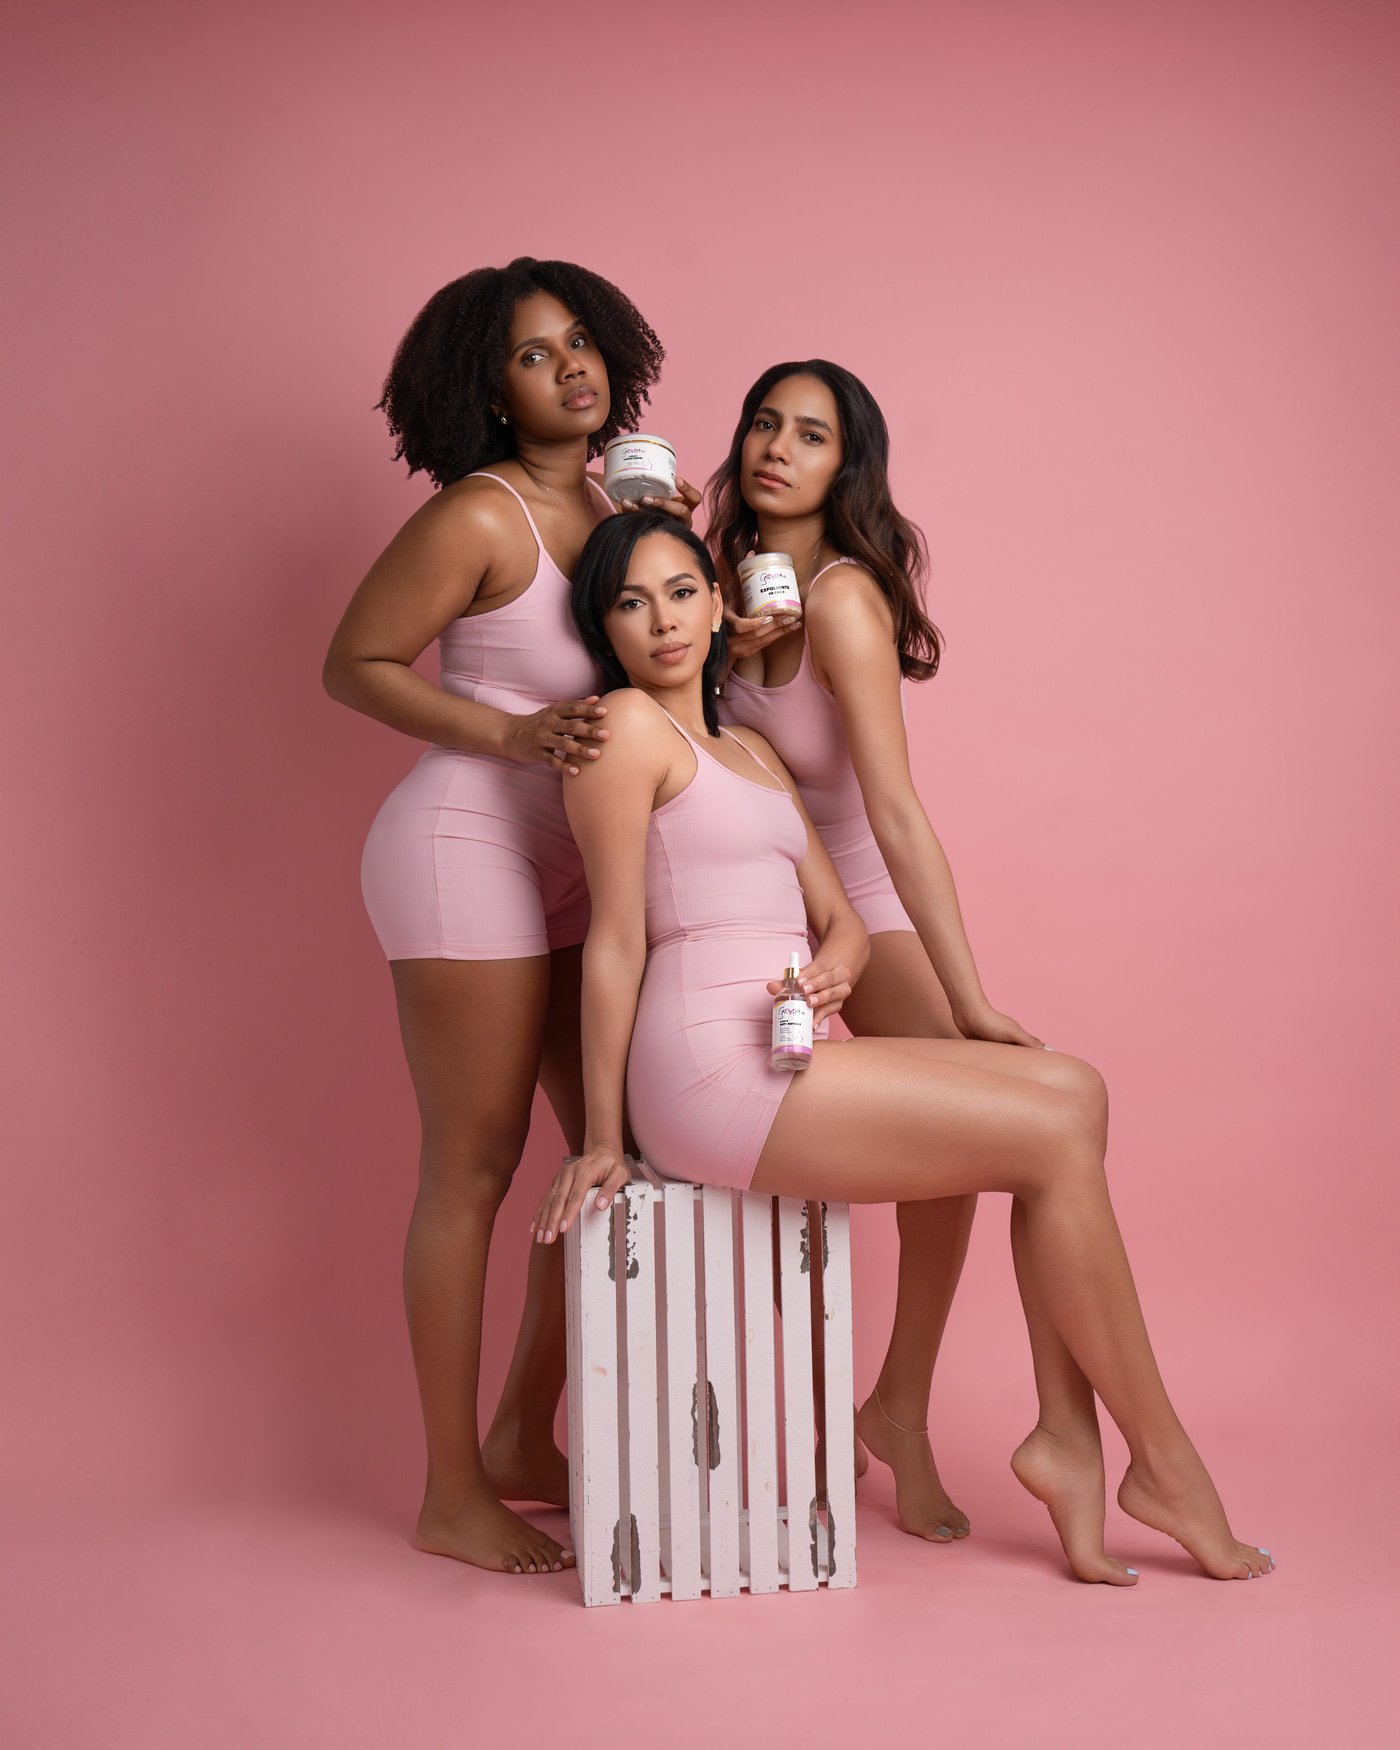
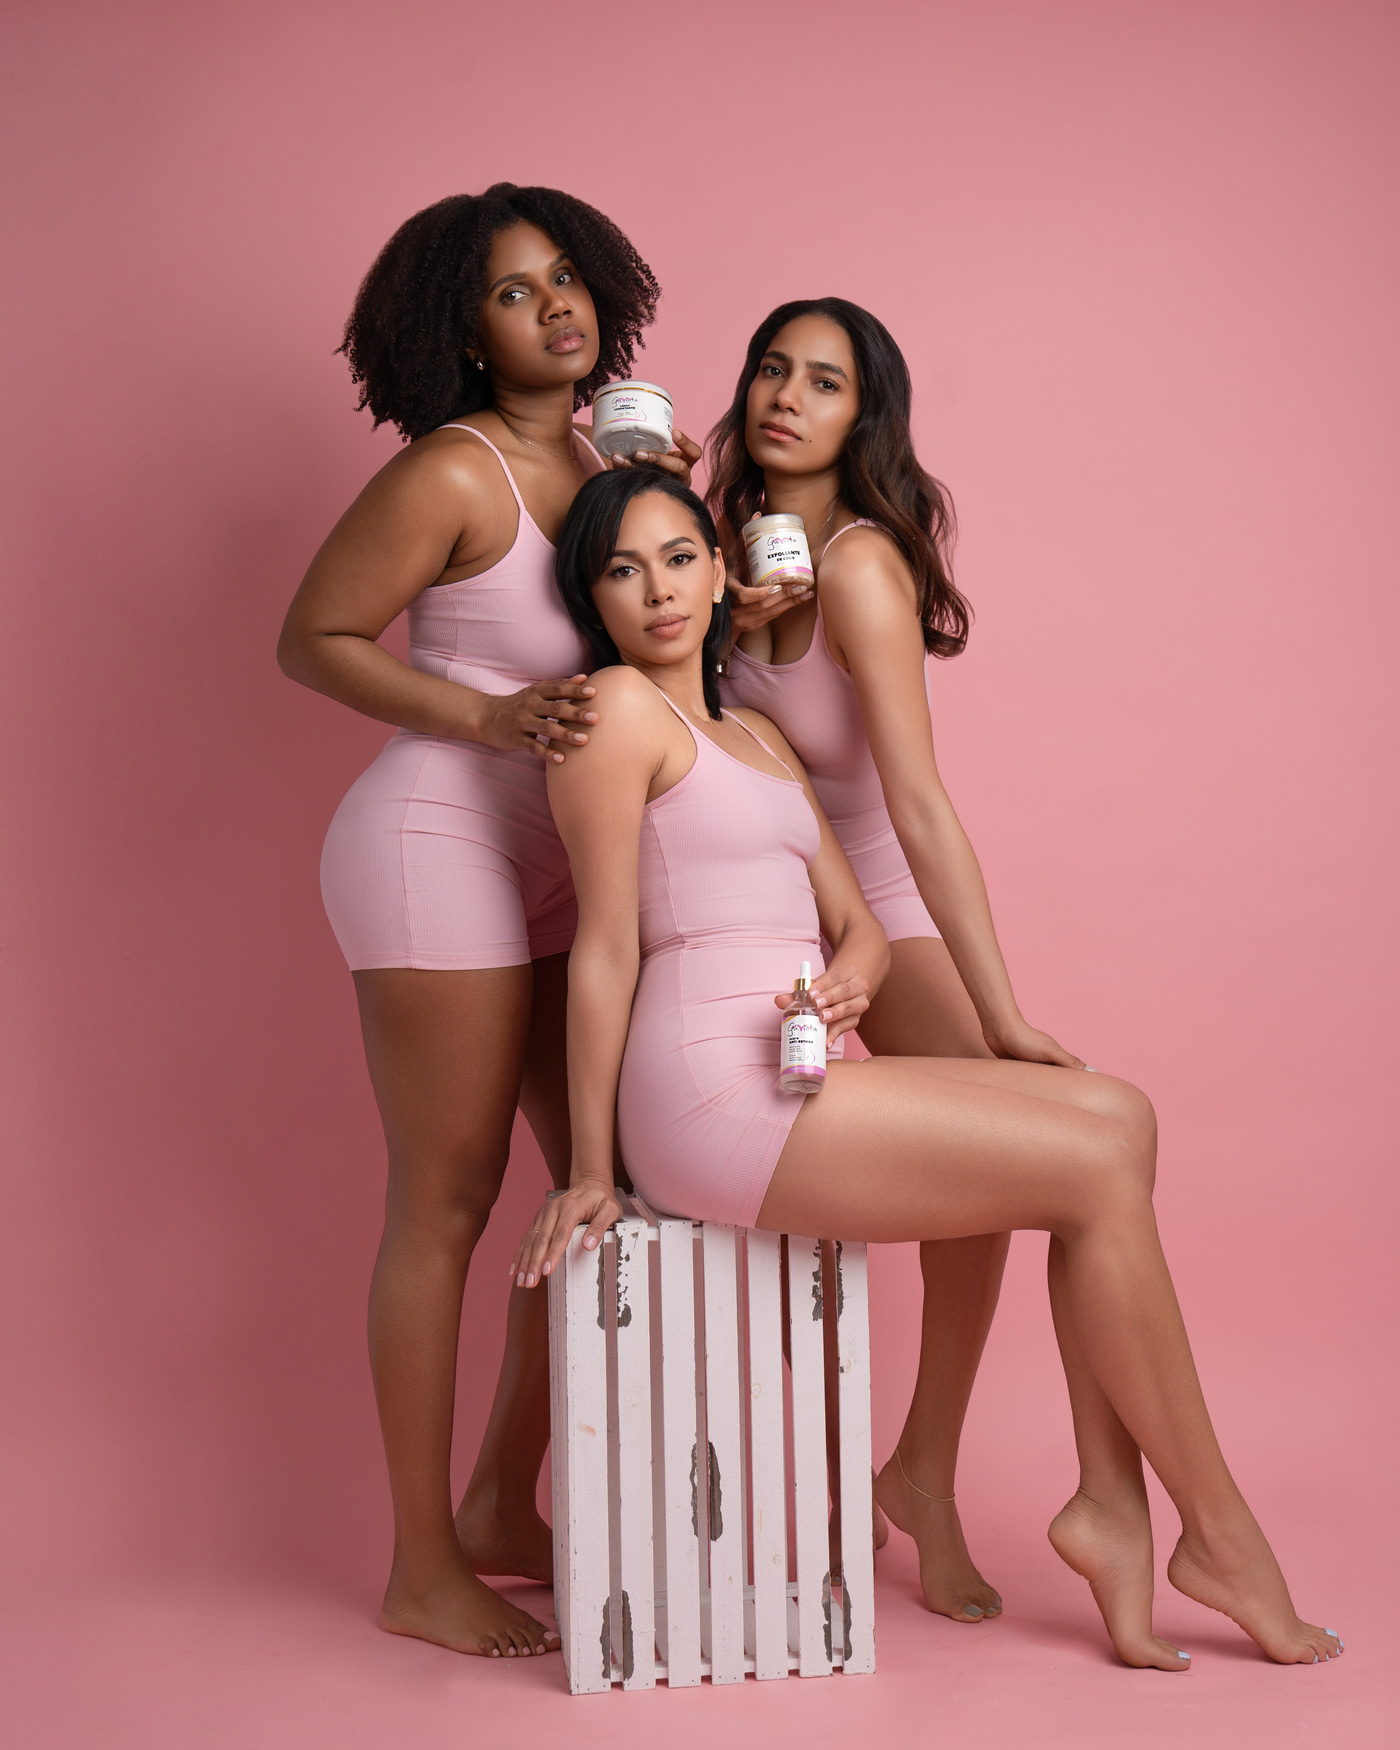
Rework home community grid and campaign photo
Community:
- Reframe photos 9 and 11 (1.20x / 1.12x zoom on focal point) so all four
  group shots sit at a similar scale; 17 and 18 unchanged.
- Drop the off-spec 5th photo (was a 20.8 MB un-pipelined file that left an
  orphan row); back to the documented 9/11/17/18 set.
- Fix wrong subject counts in alt text (18: five->four, 11: four->three) and
  tighten the es/en wording.
- Drop the inert per-photo focal (source and container are both 4:5).

Campaign block:
- Use the lip-care portrait (16of19) instead of the shoulder-cream shot.
- Raise the image panel to lg:min-h-[48rem] and set focal 50% 4% so the
  crop no longer clips the top of the head on wide viewports.

Copy:
- Add "irresistible" to the Spanish campaign body for es/en parity.

Changed region(s): [[0.0921, 0.0926, 0.9521, 0.9874], [0.9214, 0.0, 1.0, 0.0309]]

diff --git a/src/lib/content/home-data.ts b/src/lib/content/home-data.ts
@@ -318,48 +318,35 @@ export const CAMPAIGN_BENEFITS: readonly Bilingual[] = [
 export interface CommunityPhoto {
   readonly src: string;
   readonly alt: Bilingual;
-  readonly focal: string;
 }
 
 export const COMMUNITY_PHOTOS: readonly CommunityPhoto[] = [
   {
     src: '/images/gaviota/community/comunidad-18.jpg',
-    focal: '50% 45%',
     alt: {
-      en: 'Five women holding different products from the Gaviota by Lia line',
-      es: 'Cinco mujeres mostrando distintos productos de la línea Gaviota by Lia',
+      en: 'Four women showing different products from the Gaviota by Lia line',
+      es: 'Cuatro mujeres mostrando distintos productos de la línea Gaviota by Lia',
     },
   },
   {
     src: '/images/gaviota/community/comunidad-9.jpg',
-    focal: '50% 58%',
     alt: {
-      en: 'Four women of different skin tones with the Gaviota by Lia product line',
-      es: 'Cuatro mujeres de distintos tonos de piel junto a la línea de productos Gaviota by Lia',
+      en: 'Four women of different skin tones with the Gaviota by Lia line',
+      es: 'Cuatro mujeres de distintos tonos de piel junto a la línea Gaviota by Lia',
     },
   },
   {
     src: '/images/gaviota/community/comunidad-17.jpg',
-    focal: '50% 42%',
     alt: {
-      en: 'Three women holding the Gaviota by Lia scrub and body oil',
-      es: 'Tres mujeres sosteniendo el exfoliante y el aceite Gaviota by Lia',
+      en: 'Three women holding Gaviota by Lia body-care products',
+      es: 'Tres mujeres sosteniendo productos de cuidado corporal Gaviota by Lia',
     },
   },
   {
     src: '/images/gaviota/community/comunidad-11.jpg',
-    focal: '50% 50%',
     alt: {
-      en: 'Four women posing together with Gaviota by Lia products',
-      es: 'Cuatro mujeres posando juntas con productos Gaviota by Lia',
-    },
-  },
-  {
-    src: '/images/gaviota/community/comunidad-19.jpg',
-    focal: '50% 30%',
-    alt: {
-      en: 'Woman seated and surrounded by hands holding the Gaviota by Lia product line',
-      es: 'Mujer sentada rodeada de manos sosteniendo la línea de productos Gaviota by Lia',
+      en: 'Three women posing together with Gaviota by Lia products',
+      es: 'Tres mujeres posando juntas con productos Gaviota by Lia',
     },
   },
 ];

diff --git a/src/components/sections/campaign.tsx b/src/components/sections/campaign.tsx
@@ -21,17 +21,21 @@ export async function Campaign({ locale }: { locale: Locale }) {
     <Section tone="wine" padding="none" labelledBy="campaign-title" className="overflow-hidden">
       <div className="grid lg:grid-cols-2">
         {/* La imagen llena su mitad de verdad: el contenedor se estira con la
-            fila de la rejilla y la foto usa `object-cover` a altura completa. */}
-        <div className="relative min-h-[22rem] sm:min-h-[26rem] lg:min-h-[42rem]">
+            fila de la rejilla y la foto usa `object-cover` a altura completa.
+            `lg:min-h-[48rem]` (antes 42): la foto es un primer plano 4:5 con
+            poco aire sobre la cabeza; en un panel más bajo `object-cover` le
+            recortaba la coronilla en pantallas anchas. Con 48rem el panel se
+            acerca al retrato y `focal` 50% 4% deja la cabeza entera. */}
+        <div className="relative min-h-[22rem] sm:min-h-[26rem] lg:min-h-[48rem]">
           <FillEditorialImage
-            src="/images/gaviota/editorial/campaign-aplicacion.jpg"
+            src="/images/gaviota/editorial/campaign-labios.jpg"
             alt={pick(
               locale,
-              'Woman applying Gaviota by Lia body cream to her shoulder',
-              'Mujer aplicando crema hidratante Gaviota by Lia sobre su hombro',
+              'Woman holding a small gold Gaviota by Lia jar, one finger to her lips',
+              'Mujer sosteniendo un pequeño tarro dorado de Gaviota by Lia, con un dedo sobre los labios',
             )}
             sizes="(min-width: 1024px) 50vw, 100vw"
-            focal="45% 38%"
+            focal="50% 4%"
           />
         </div>
 

diff --git a/src/components/sections/community.tsx b/src/components/sections/community.tsx
@@ -70,7 +70,12 @@ export async function Community({ locale }: { locale: Locale }) {
                       width={1400}
                       height={1750}
                       sizes="(max-width: 639px) 68vw, (max-width: 1023px) 48vw, 23vw"
-                      focal={photo.focal}
+                      // Todos los originales son 4:5, igual que el contenedor:
+                      // `object-cover` no recorta y el punto focal no tiene
+                      // efecto. Se deja el centro por defecto. Si algún día se
+                      // cambia el `aspect-[4/5]` de arriba, habrá que volver a
+                      // pasar un focal por foto.
+                      focal="50% 50%"
                     />
                   </div>
                 </div>

diff --git a/src/lib/content/sections.ts b/src/lib/content/sections.ts
@@ -68,7 +68,7 @@ const DEFAULTS_ES: Record<string, ContentSection> = {
     key: 'home.campaign',
     eyebrow: 'Exfoliante de Coco',
     title: 'Suavidad que se convierte en ritual.',
-    body: 'Gránulos finos de coco y una fragancia que convierte dos minutos en la ducha en el momento más esperado del día.',
+    body: 'Gránulos finos de coco y una fragancia irresistible que convierte dos minutos en la ducha en el momento más esperado del día.',
     buttonLabel: 'Conocer el producto',
     buttonUrl: '/products/exfoliante-de-coco',
     status: 'active',

diff --git a/docs/CONTENT_TODO.md b/docs/CONTENT_TODO.md
@@ -350,6 +350,12 @@ productos.
 
 - [ ] ¿Se puede usar, o su exclusión fue deliberada?
 
+**Estado:** se había añadido a la rejilla de comunidad como `comunidad-19.jpg` (un
+JPEG de 20,8 MB sin pasar por el pipeline, y dejaba 5 fotos = fila huérfana en la
+rejilla de 4). Se retira hasta que se resuelva la duda de arriba. Para volver a
+usarla: añadir `12` a los bucles de `scripts/process-images.mjs` y a
+`COMMUNITY_PHOTOS`, y decidir un layout de 5 (p. ej. `lg:grid-cols-5`).
+
 ---
 
 ## 🟢 C19 — Reseñas y testimonios
